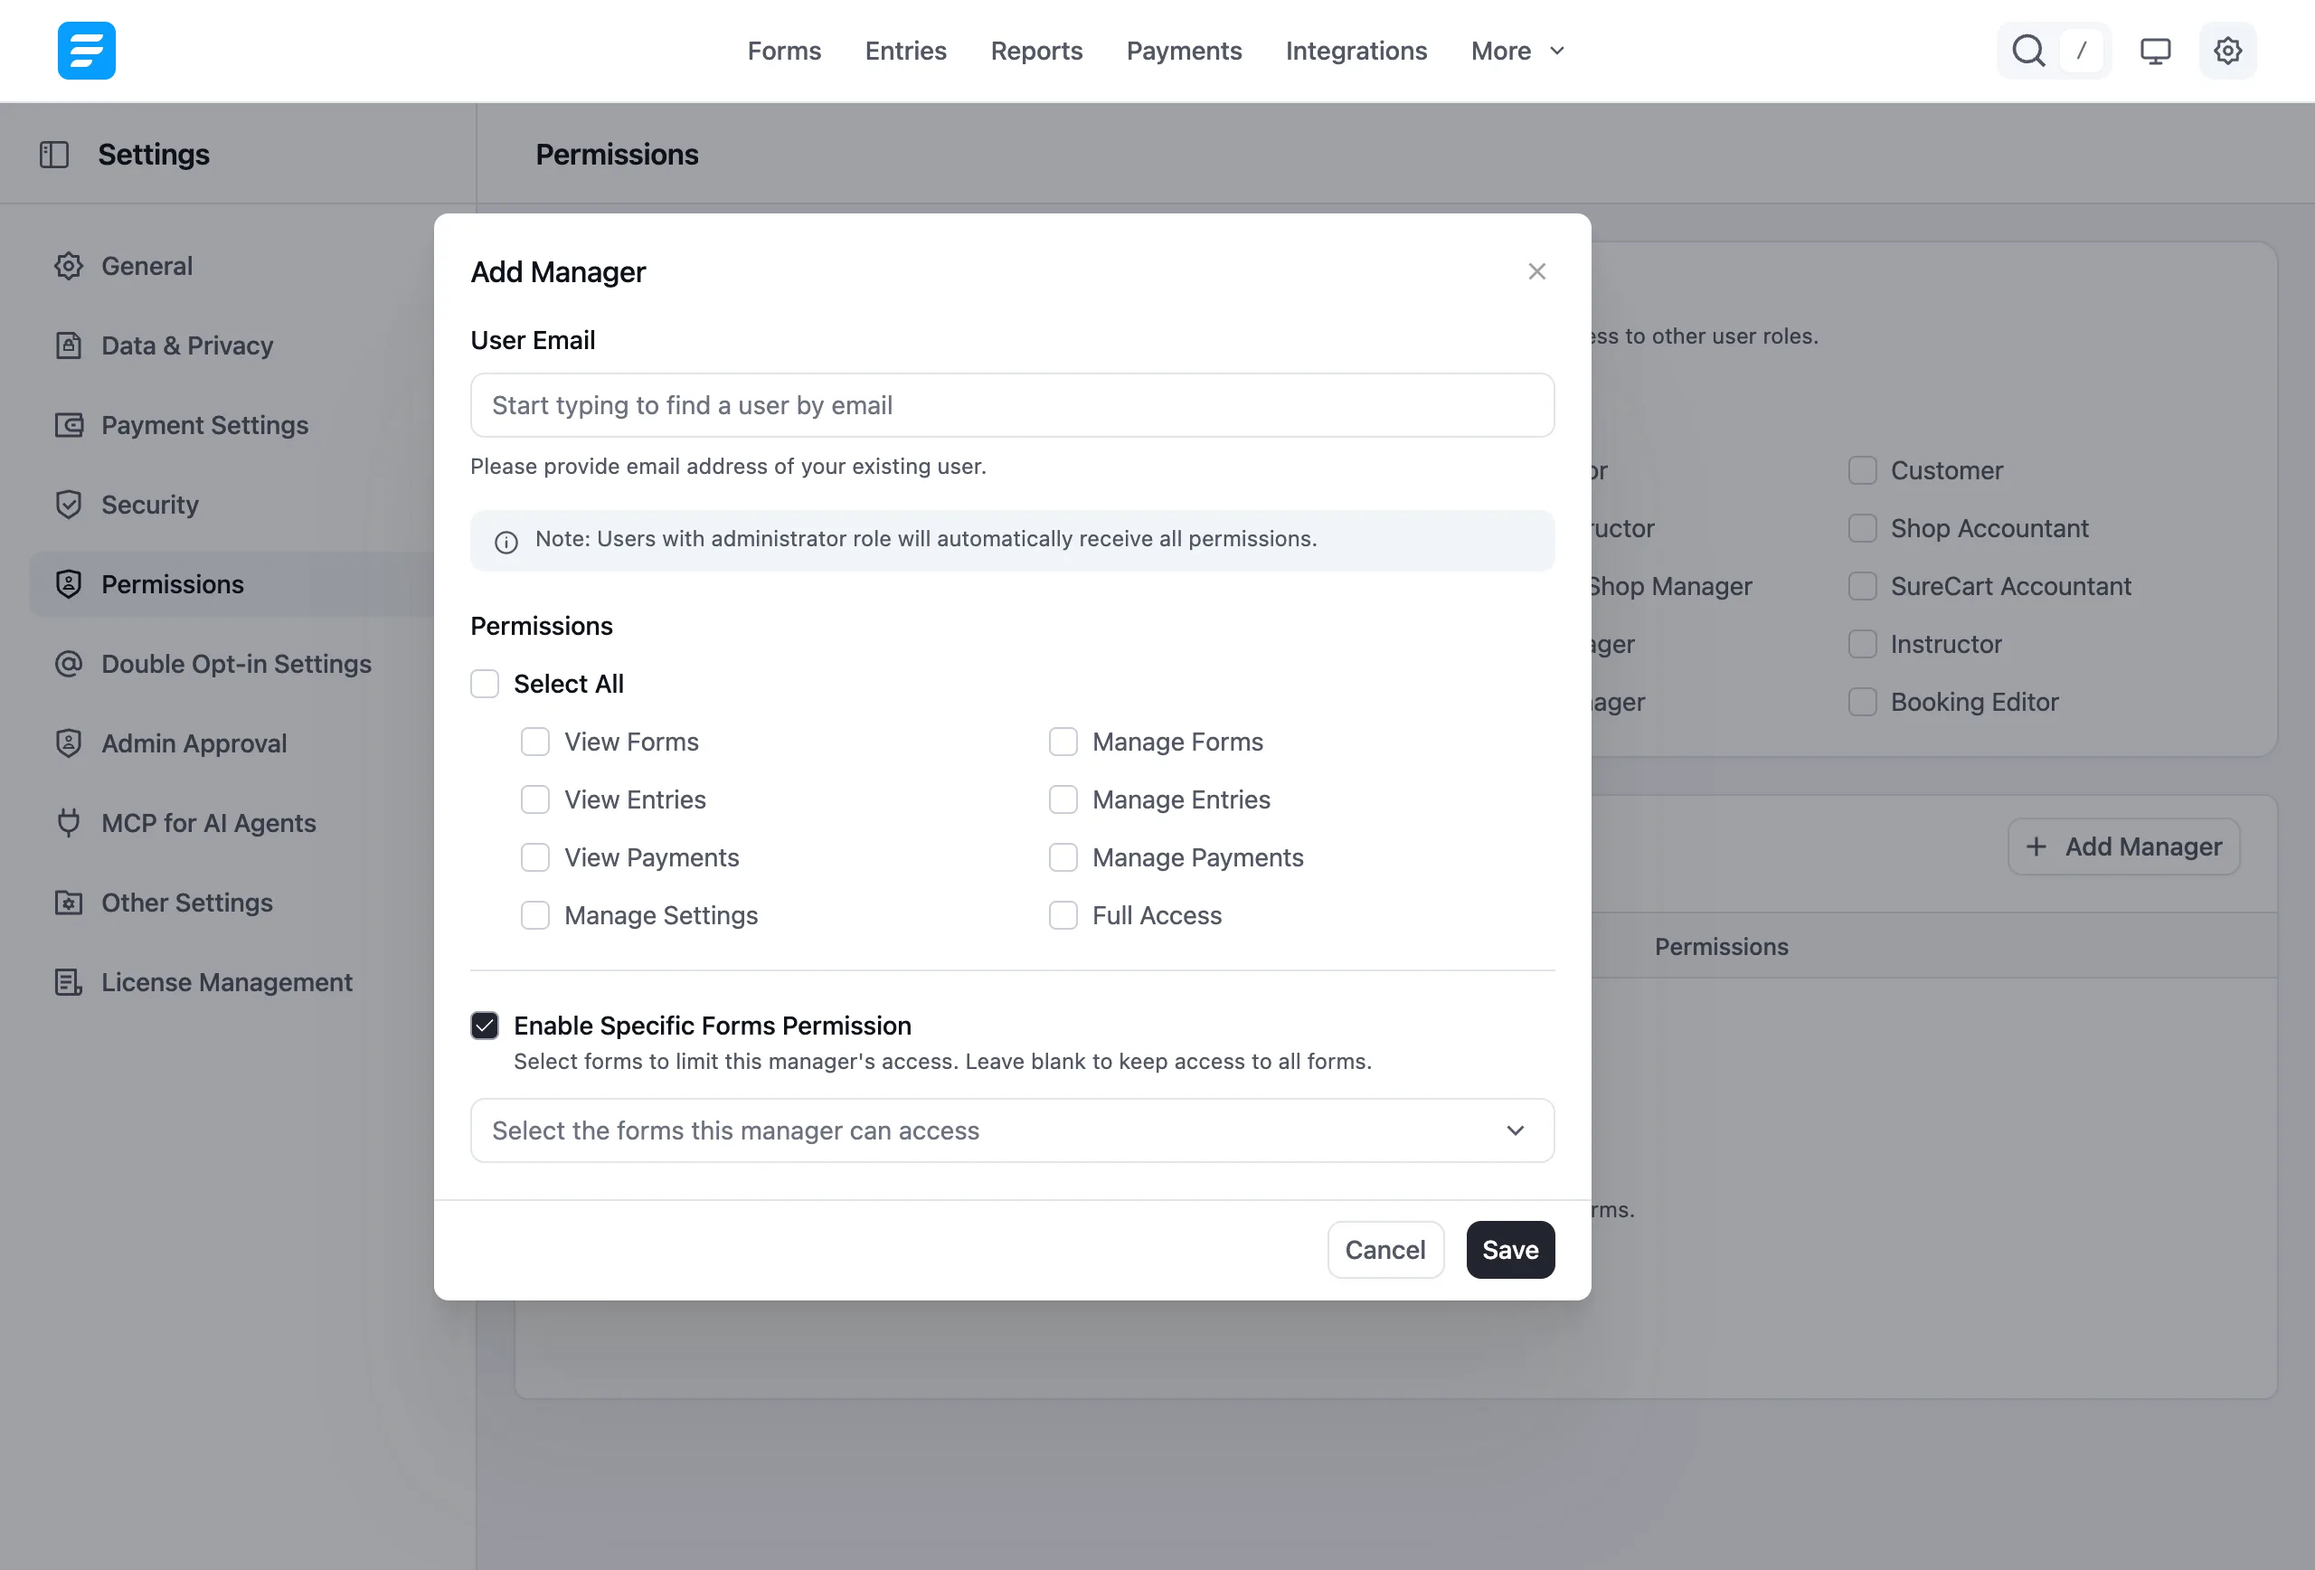
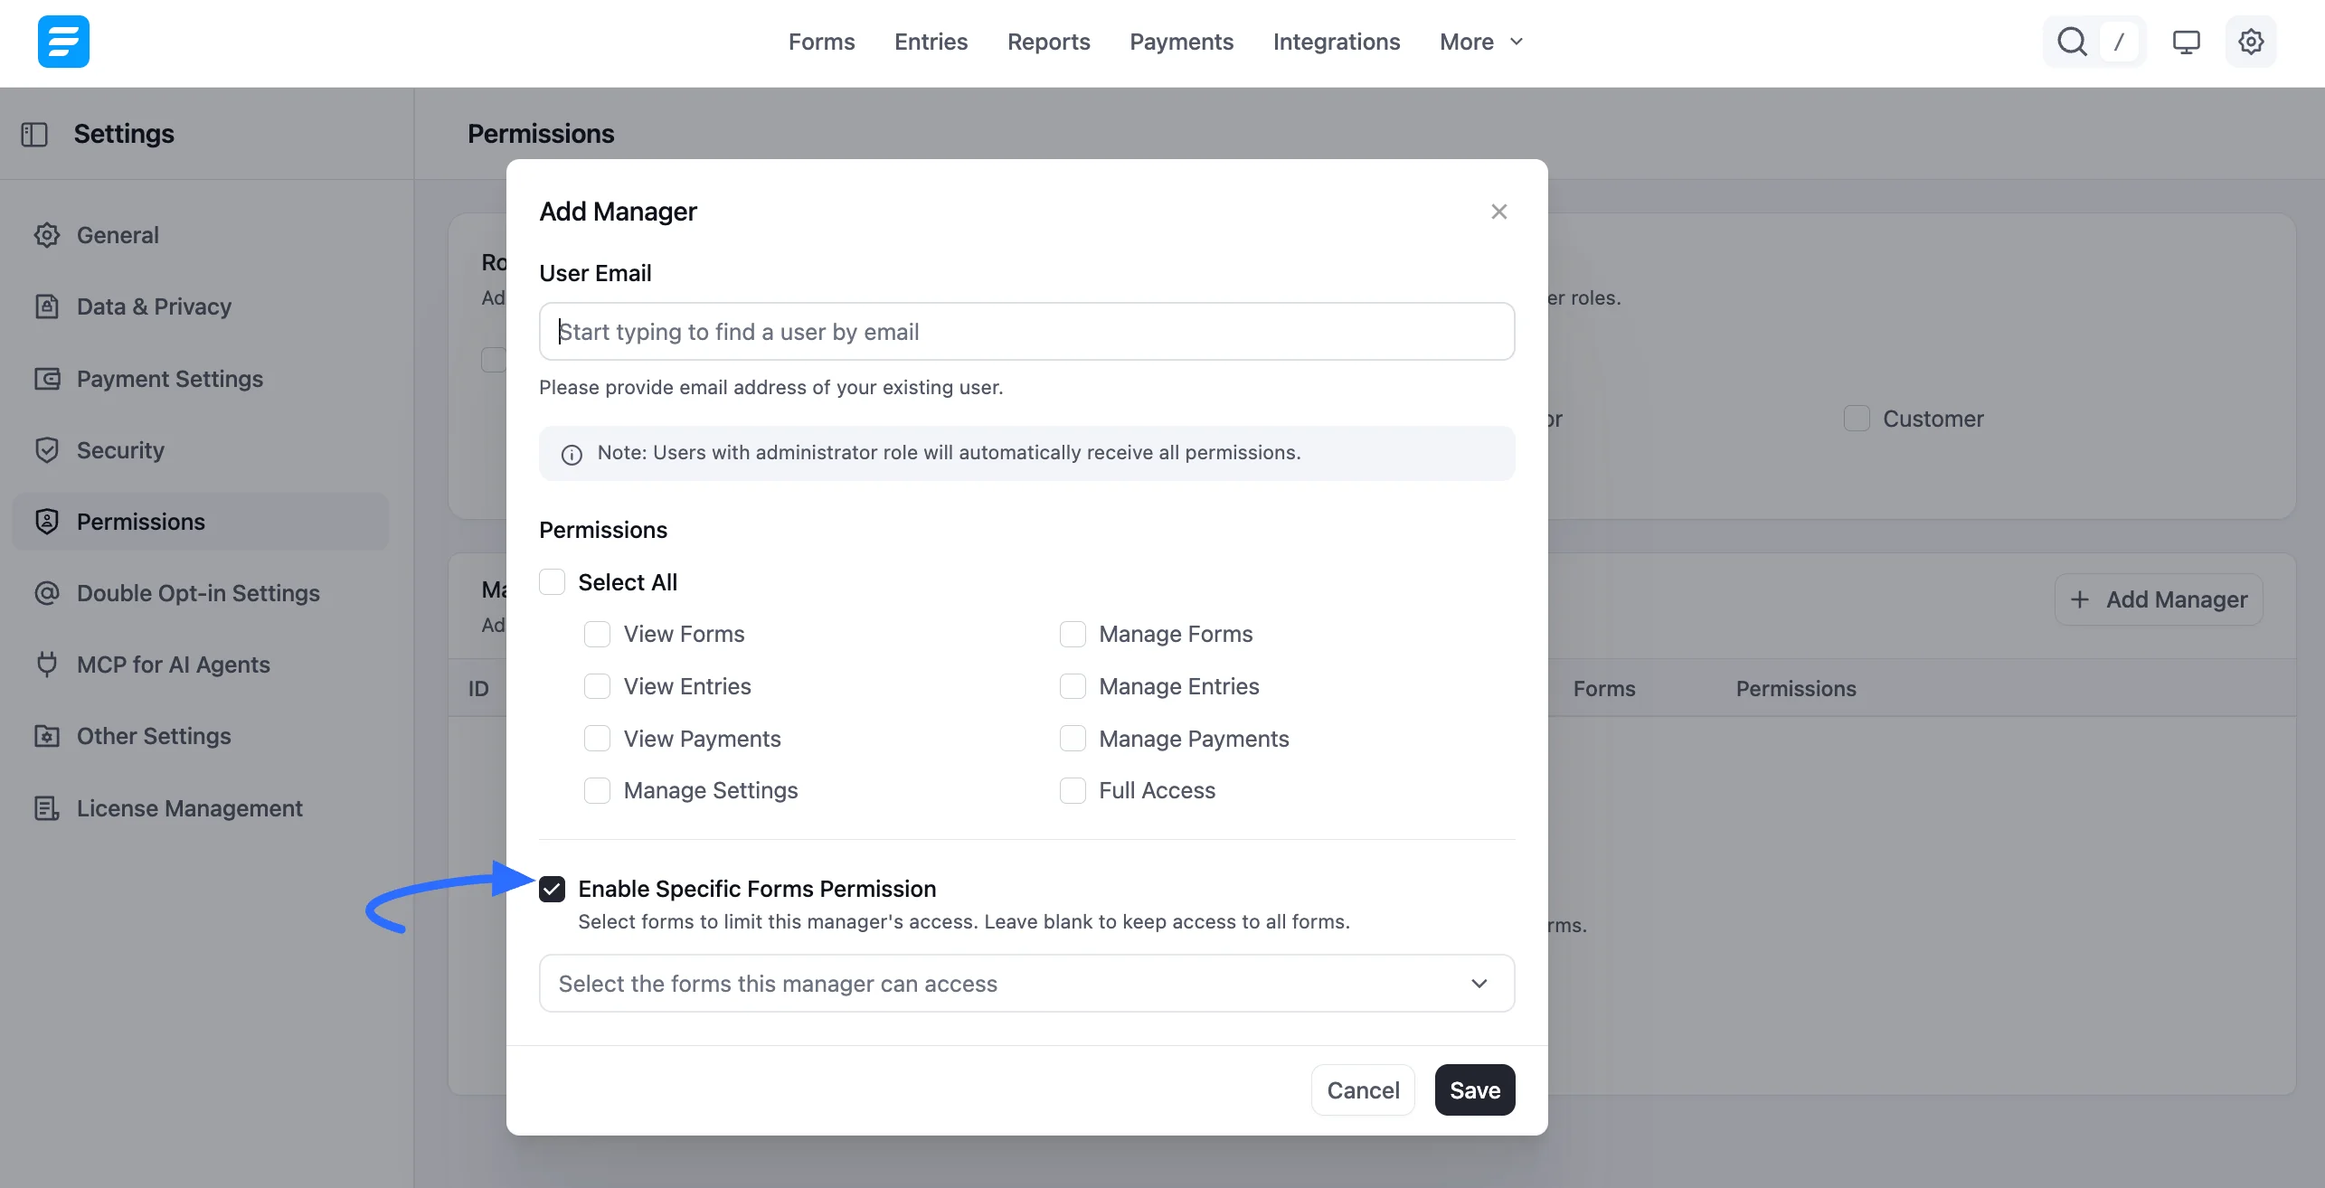
update docs and screenshot and also settings up amnagers access control

diff --git a/docs/account-license/setting-up-managers-access-control.md b/docs/account-license/setting-up-managers-access-control.md
@@ -13,27 +13,27 @@ This article will guide you through creating a **Manager** and setting their per
 
 ## Access Manager Settings
 
-Go to the Fluent Forms dashboards. From the navigation bar, click the **Settings** (gear) icon and select **Permissions** from the left sidebar. You will now see the **Role Based** and **Managers** sections.
+Go to the Fluent Forms dashboard. From the top navigation bar, click the **Settings** (gear) icon and select **Permissions** from the left sidebar. You will see the **Role Based** and **Managers** sections.
 
-![Setting Up Manager](/images/account-license/setting-up-managers-access-control/setting-up-manager-01-scaled.webp)
+![Permissions page with the Settings icon and Add Manager button highlighted](/images/account-license/setting-up-managers-access-control/setting-up-manager-01-scaled.webp)
 
 ### Role-Based
 
-The Role-Based Manager assigns permissions based on WordPress user roles. Users who match the selected role will become Fluent Forms Managers and receive full access to all Fluent Forms features.
+The **Role Based** section assigns access by WordPress user role. Check the roles you want, such as Editor, Author, or Contributor, or select **Check all**. Users with a selected role become Fluent Forms Managers and receive full access to all Fluent Forms features.
 
-### Advance
+### Managers
 
-In the **Managers** section, you can designate specific users as the Fluent Forms Manager and customize their permissions to control what they can access. You can also add multiple managers with different permission sets. 
+In the **Managers** section, you can designate specific users as Fluent Forms Managers and customize their permissions to control what they can access. You can add multiple managers with different permission sets.
 
-Now, click the **Add Manager** button to add specific users as a Manager. 
+Click the **Add Manager** button to add a specific user as a Manager.
 
 ![Manage Fluent Forms](/images/account-license/setting-up-managers-access-control/manage-02.png)
 
-A popup will appear, allowing you to select the manager and set the permissions of that manager. 
+The **Add Manager** popup appears. Select the user and set the manager's permissions.
 
-**User Email:** Here, you have to provide the email address of your site user.
+**User Email:** Start typing to find an existing site user by email address. Users with the administrator role automatically receive all permissions.
 
-**Permission:** You will get your manager's permission below.
+**Permissions:** Select the permissions for this manager. You can also check **Select All** to choose every permission at once.
 
 - View Forms
 
@@ -51,17 +51,17 @@ A popup will appear, allowing you to select the manager and set the permissions 
 
 - Full Access to all features.
 
-**Access to Forms:** To access the form, first check the box to **enable the Specifics Forms Permission**. Select the forms here to grant your manager permission to use specific forms.
+**Access to Forms:** To limit the manager to certain forms, check **Enable Specific Forms Permission**. Then use the **Select the forms this manager can access** dropdown to choose the forms. If you leave it blank, the manager keeps access to all forms.
 
 > [!Note]
 > A manager with specific-form access works only within the forms you assign. They can't see or change anything that belongs to other forms. That includes entries, webhook feeds and stats in the WordPress dashboard widget. A form import also can't overwrite a form they can't access.
 
-Now, click the **Save** button to finalize the manager's permissions.
+Click the **Save** button to finalize the manager's permissions.
 
-![Fluent Forms](/images/account-license/setting-up-managers-access-control/03-2-scaled-2.webp)
+![Add Manager popup with the Enable Specific Forms Permission option](/images/account-license/setting-up-managers-access-control/03-2-scaled-2.webp)
 
-Once you've configured the Manager's permissions, you'll see their details and the assigned permissions, as shown in the screenshot below.
+Once you save, the manager appears in the **Managers** table. The table shows their ID, name, email, role, the forms they can access, and their permissions. **Specific** under **Forms** means the manager is limited to selected forms.
 
-You can edit or delete the Manager by clicking the corresponding **Edit** or **Delete** icon button next to their name and permission details.
+To change a manager's access, click the **Edit** (pencil) icon. To remove the manager, click the **Delete** (trash) icon.
 
-![Manage Fluent Forms](/images/account-license/setting-up-managers-access-control/manage-04.png)
+![Managers table with the Edit and Delete icons highlighted](/images/account-license/setting-up-managers-access-control/manage-04.webp)
